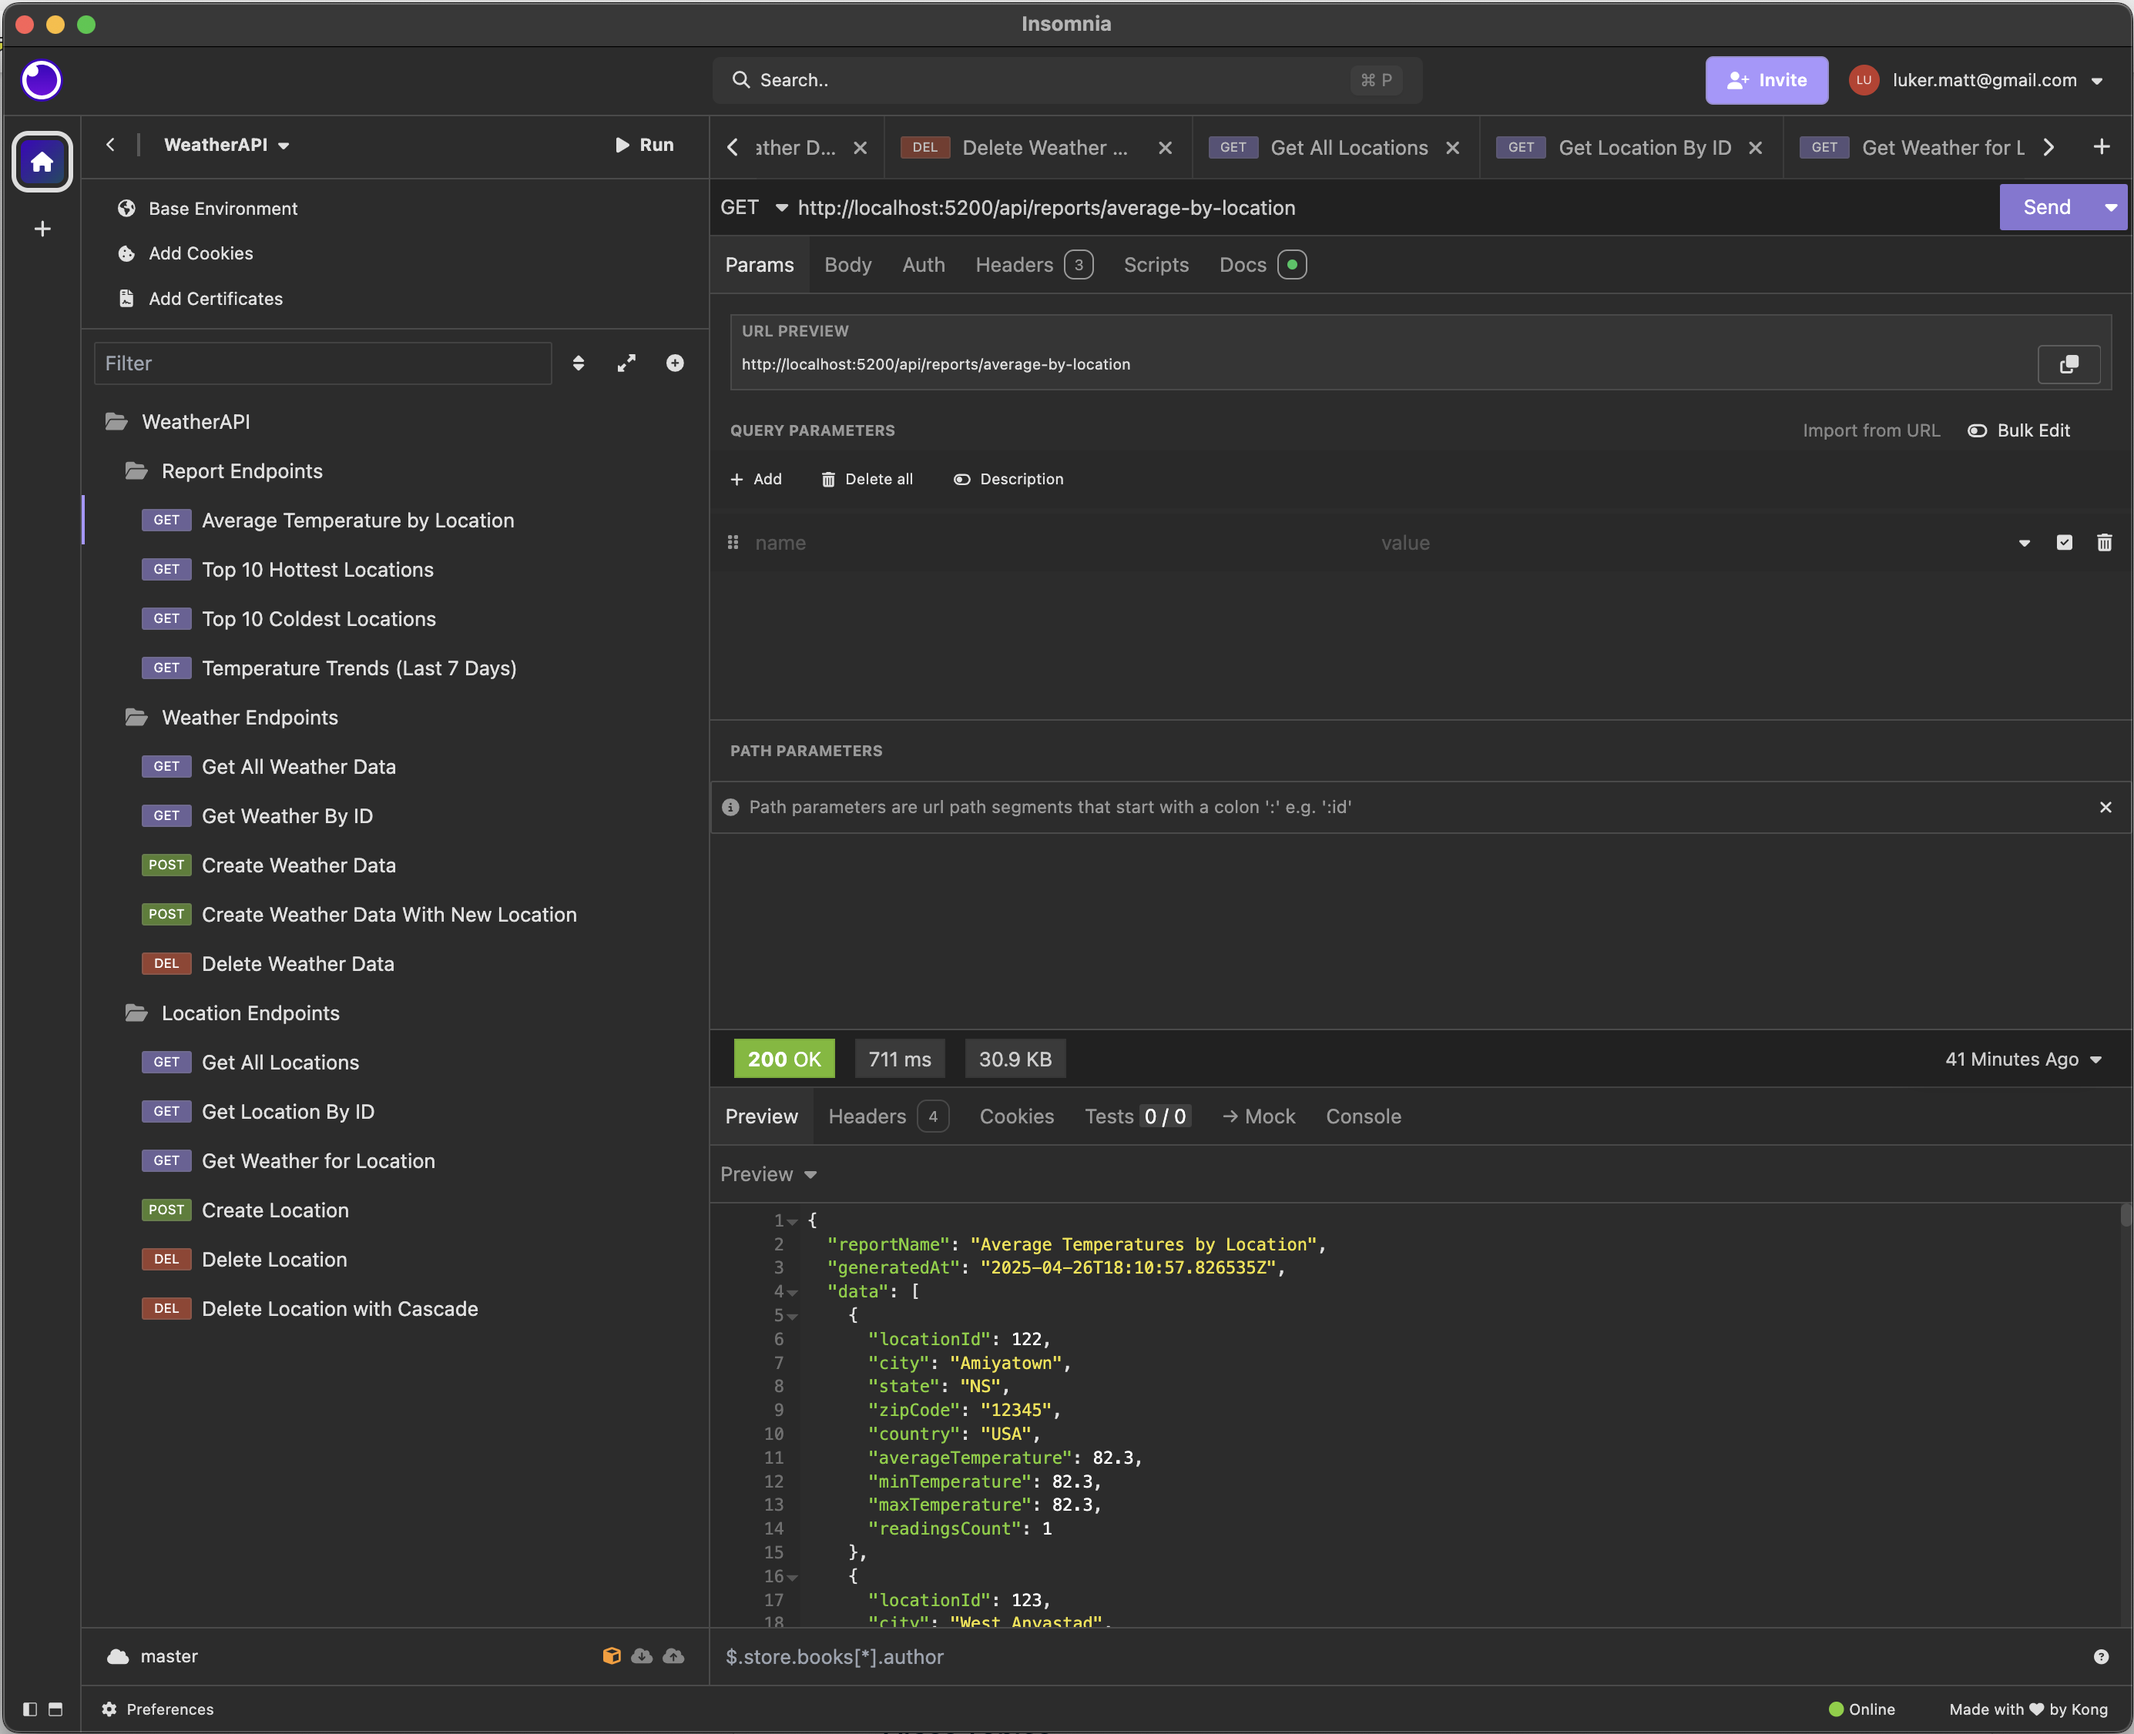
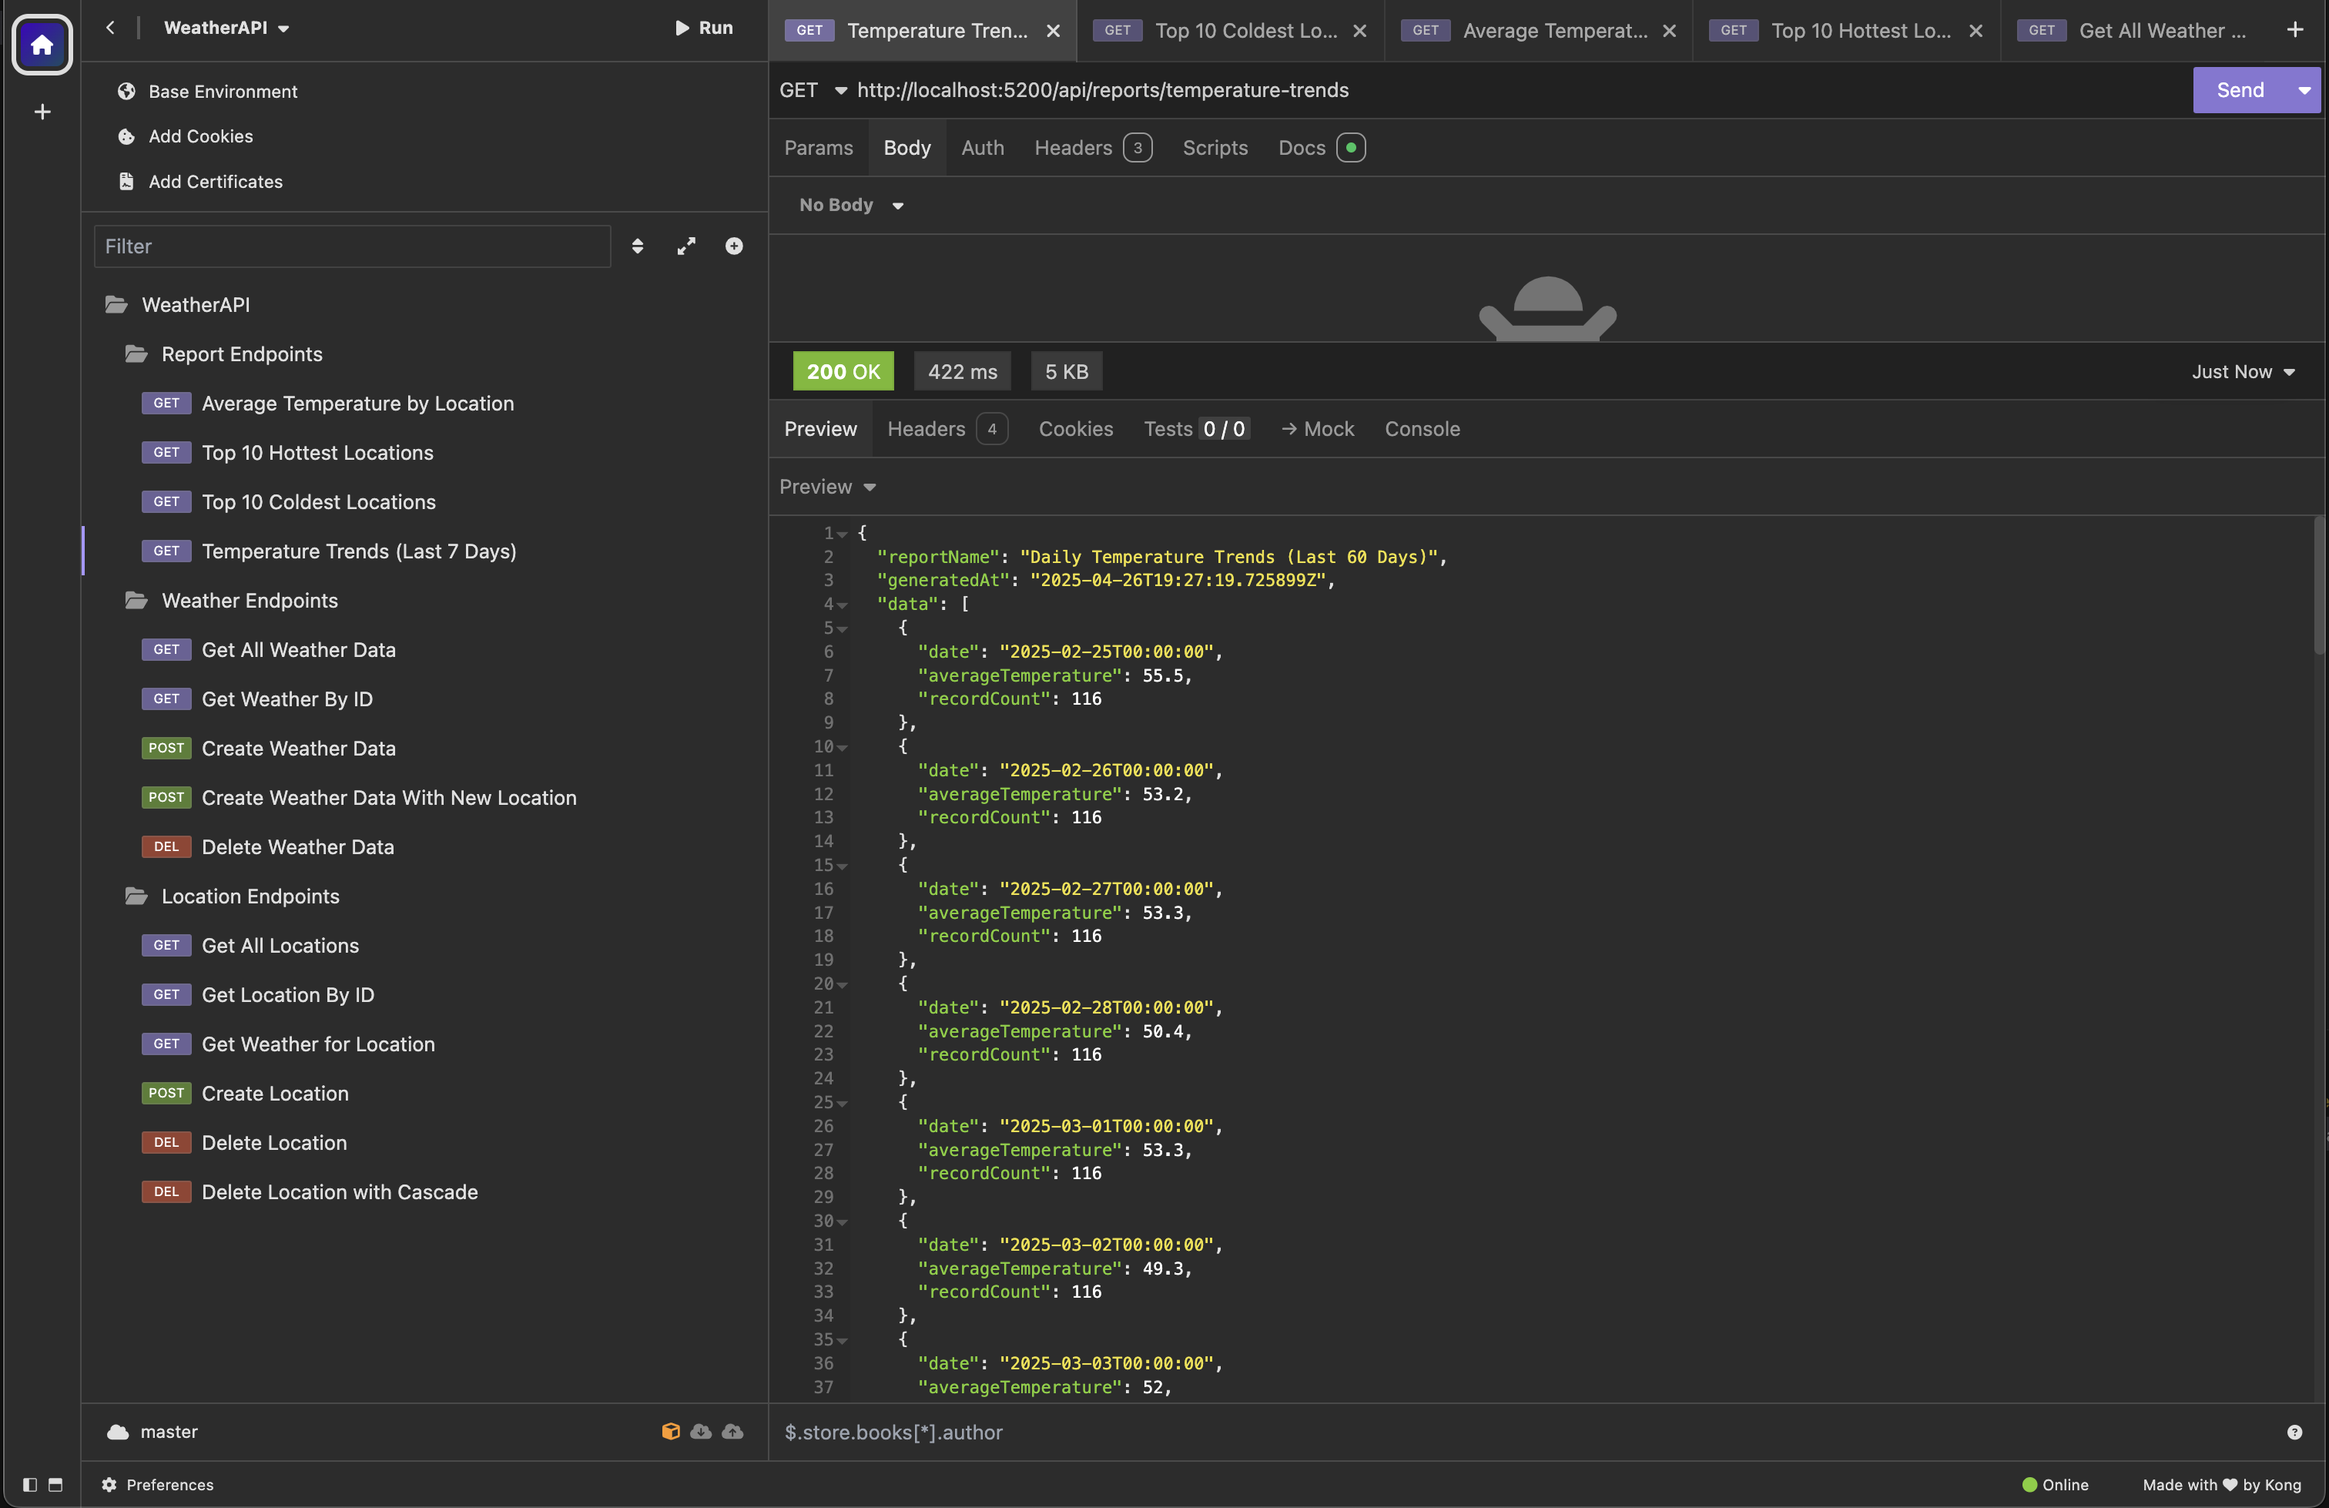
update to use last 60 days

diff --git a/WeatherApi/Endpoints/Reports/ReportEndpoints.cs b/WeatherApi/Endpoints/Reports/ReportEndpoints.cs
@@ -109,7 +109,7 @@ public static class ReportEndpoints
             });
         });
 
-        // Temperature trends over time (last 7 days)
+        // Temperature trends over time (last 60 days)
         app.MapGet("/api/reports/temperature-trends", async (WeatherDbContext db) =>
         {
             // Get current date
@@ -125,7 +125,7 @@ public static class ReportEndpoints
             // GROUP BY DATE(w.RecordedAt)
             // ORDER BY Date ASC
             var trends = await db.WeatherData
-                .Where(w => w.RecordedAt >= today.AddDays(-7))
+                .Where(w => w.RecordedAt >= today.AddDays(-60))
                 .GroupBy(w => w.RecordedAt.Date)
                 .Select(g => new
                 {
@@ -138,7 +138,7 @@ public static class ReportEndpoints
 
             return Results.Ok(new
             {
-                ReportName = "Daily Temperature Trends (Last 7 Days)",
+                ReportName = "Daily Temperature Trends (Last 60 Days)",
                 GeneratedAt = DateTime.UtcNow,
                 Data = trends
             });
